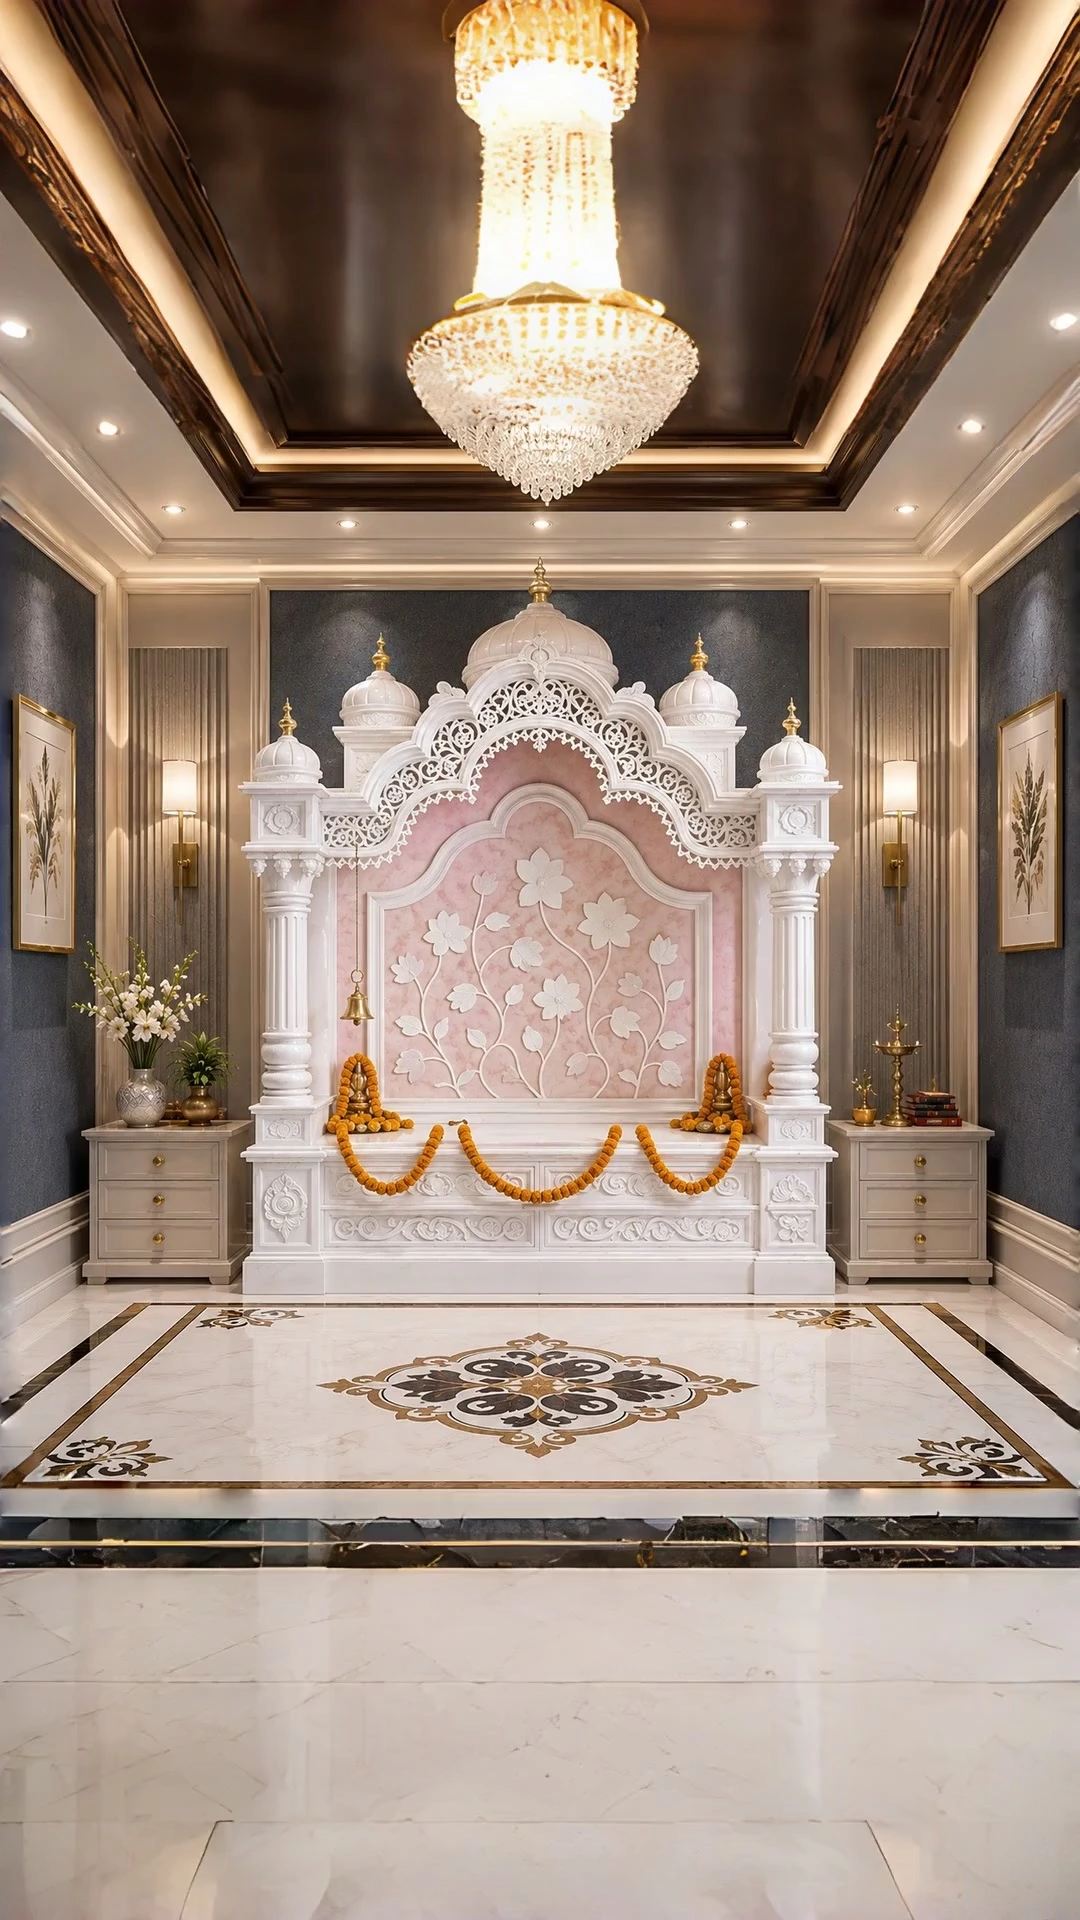
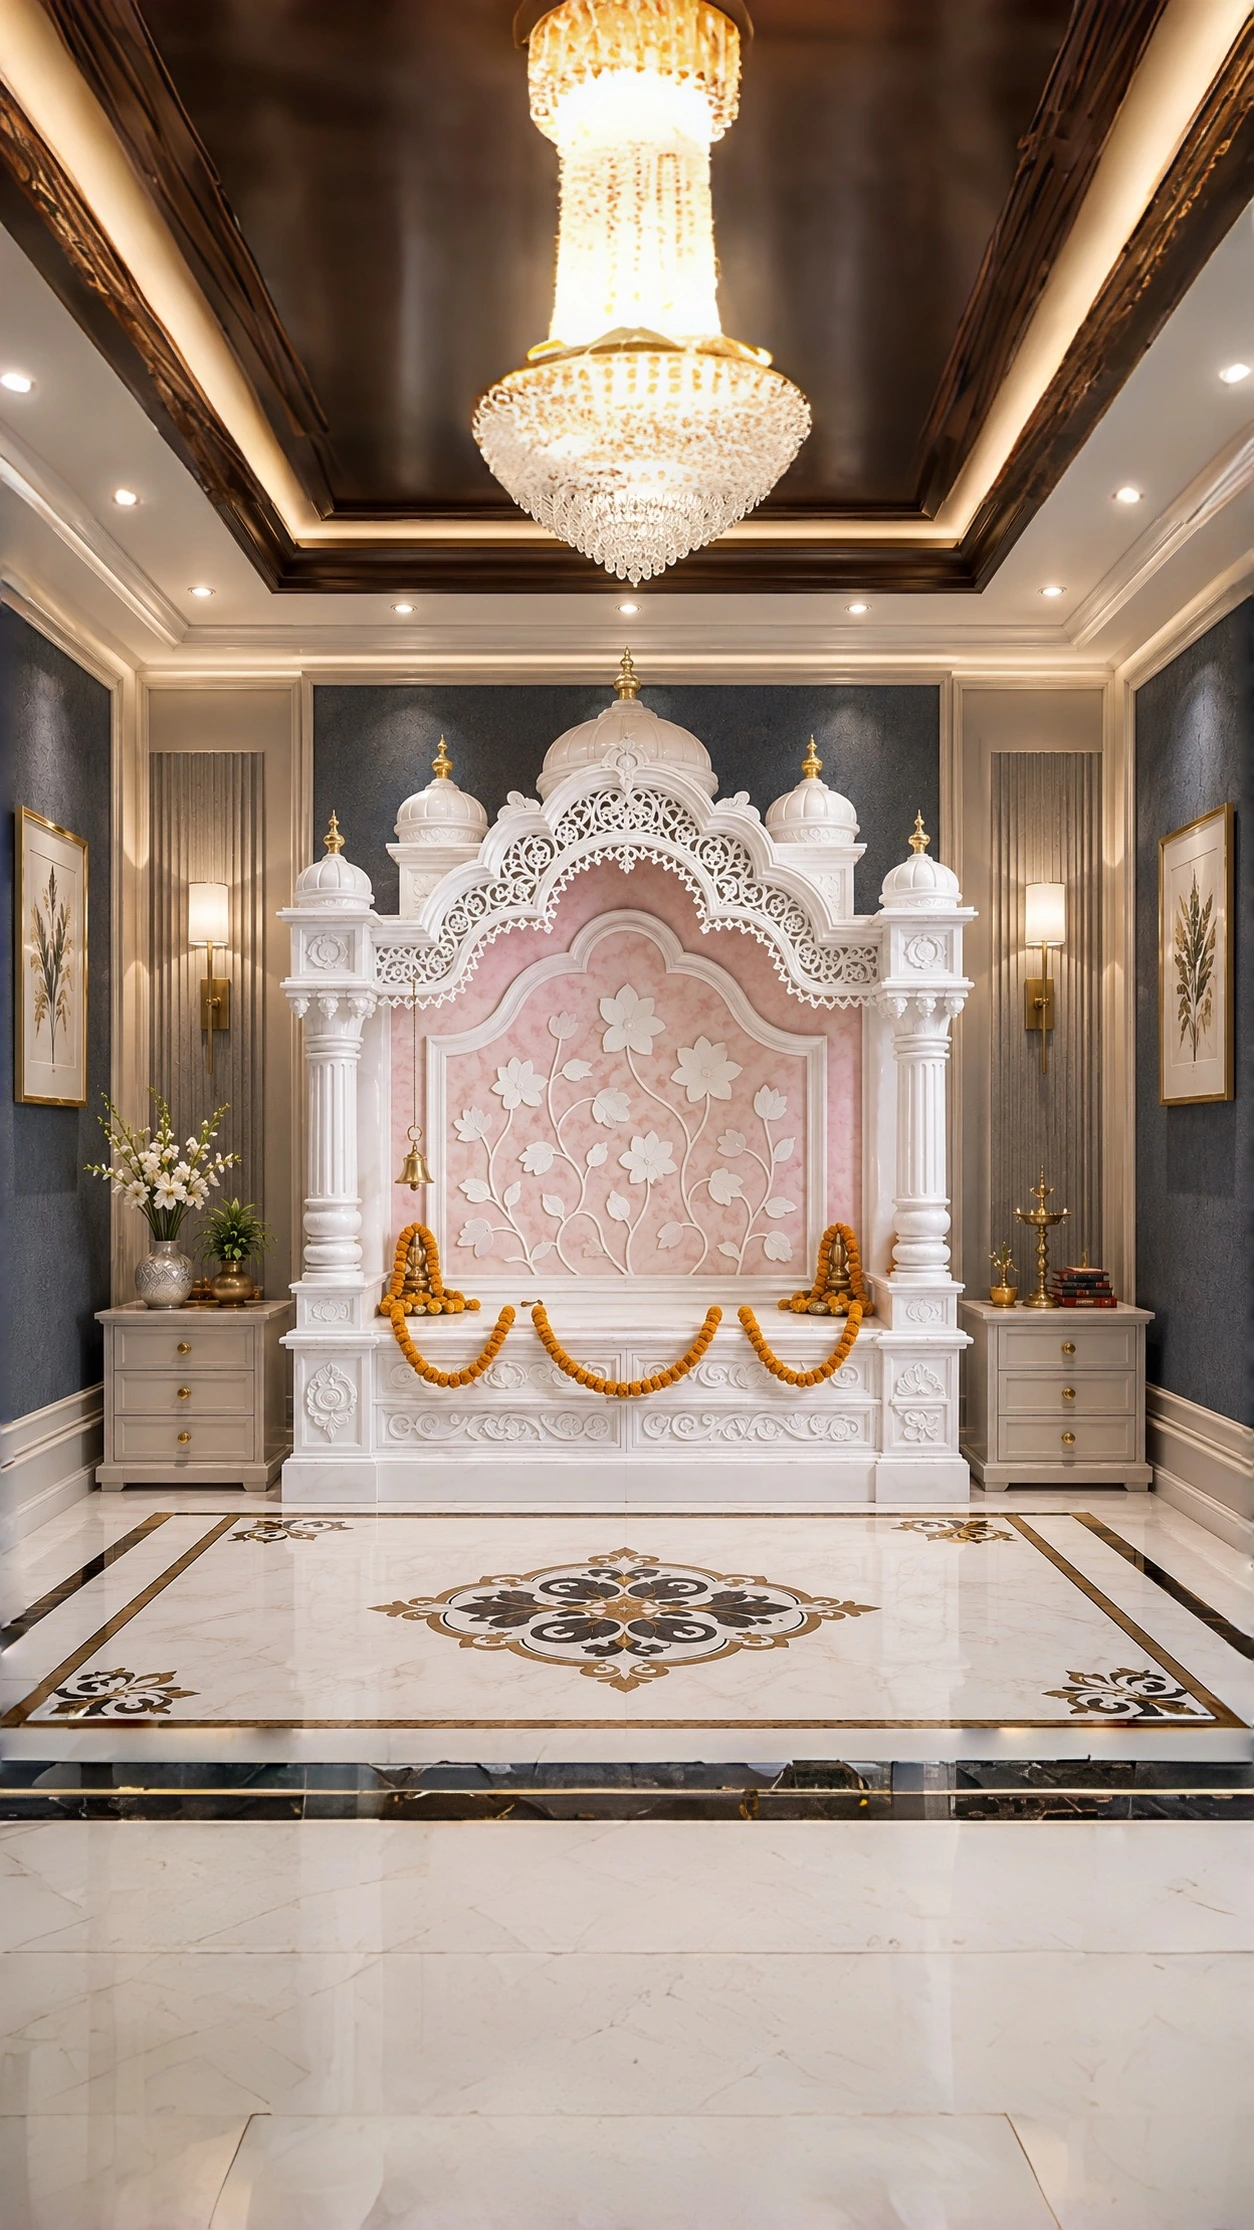
fix: replace duplicate craft process step 3 image with authentic workshop yard trial photo, use IMG_5714 for mobile video poster, and ensure 100% unique product gallery images

diff --git a/src/products.js b/src/products.js
@@ -734,22 +734,22 @@ export const PRODUCTS = [
       'Designed for expansive botanical gardens and hotel courtyards, this octagonal fountain features an architectural coping ledge for relaxed seating, with a central tiered cascade providing an enchanting acoustic presence.',
     angles: [
       {
-        label: 'Circular Pool View',
+        label: 'Octagonal Garden View',
         tag: 'Complete View',
-        src: '/gallery/fountain-circular-lawn-estate-cascade.webp',
-        desc: '100% pure white Makrana marble tiered fountain with large pool basin on garden lawn.'
+        src: '/gallery/fountain-botanical-garden-octagonal.webp',
+        desc: '100% pure white marble octagonal tiered fountain set on garden lawn.'
       },
       {
-        label: 'Lawn Cascade Setting',
-        tag: 'Water Cascade',
-        src: '/gallery/fountain-palatial-estate-triple-tier-lawn.webp',
-        desc: 'Wide view of cascading water tiers and carved scalloped pool rim on estate grounds.'
+        label: 'Octagonal Fountain Crown',
+        tag: 'Center Spout',
+        src: '/gallery/fountain-botanical-octagonal-crown.webp',
+        desc: 'Detail of carved finial and upper cascading water tiers.'
       },
       {
-        label: 'Courtyard Centerpiece Setting',
-        tag: 'Courtyard View',
-        src: '/gallery/fountain-courtyard-circular.webp',
-        desc: 'Full perspective showing the symmetrical basin and soothing water flow.'
+        label: 'Carved Basin Rim',
+        tag: 'Basin Detail',
+        src: '/gallery/fountain-botanical-octagonal-base.webp',
+        desc: 'Octagonal white marble perimeter basin rim with smooth seating ledge.'
       }
     ],
     specs: [

diff --git a/src/app/page.jsx b/src/app/page.jsx
@@ -601,13 +601,13 @@ export default function HomePage() {
               {
                 step: '03',
                 title: 'Full Workshop Assembly & Video Check',
-                img: '/gallery/yard-dryfit-raw-calcite-mandir.webp?v=realphoto',
+                img: '/gallery/atelier-yard-trial-actual.webp',
                 desc: 'Every temple is 100% test-assembled in our workshop to verify every joint and measurement before packing.'
               },
               {
                 step: '04',
                 title: 'Polishing & Safe Home Setup',
-                img: '/gallery/mandir-finishing-onsite-installation.webp?v=realphoto',
+                img: '/gallery/mandir-finishing-onsite-installation.webp?v=nov1',
                 desc: 'Finished with fine diamond water polish, gold leaf accents, and clean white-glove setup inside your home.'
               }
             ].map((item, idx) => (

diff --git a/src/app/pre-assembly-trial/page.jsx b/src/app/pre-assembly-trial/page.jsx
@@ -52,7 +52,7 @@ export default function PreAssemblyTrialPage() {
           <div className="page-grid-2" style={{ marginBottom: '60px' }}>
             <div className="page-media-frame">
               <img
-                src="/gallery/atelier-yard-preassembly.webp?v=realphoto"
+                src="/gallery/atelier-yard-trial-actual.webp"
                 alt="Makrana Atelier Trial Assembly Yard"
                 loading="lazy"
                 style={{ width: '100%', height: '100%', objectFit: 'cover' }}

diff --git a/src/components/Navbar.jsx b/src/components/Navbar.jsx
@@ -123,7 +123,7 @@ const MEGA_ARCHITECTURE = [
     subtitle: 'Pre-Assembly & Video Inspection',
     href: '/pre-assembly-trial',
     badge: 'VIDEO CHECK',
-    previewImage: '/gallery/yard-dryfit-raw-calcite-mandir.webp',
+    previewImage: '/gallery/atelier-yard-trial-actual.webp',
     previewTitle: 'Workshop Video Verification',
     previewDesc: 'Every temple is 100% test-assembled in our workshop with HD video review before packing.',
     ctaText: 'Learn How We Test'

diff --git a/src/components/YardLiveFeed.jsx b/src/components/YardLiveFeed.jsx
@@ -7,7 +7,7 @@ const YARD_BAYS = [
     code: 'BAY 01 — FULL SETUP TRIAL',
     title: 'Workshop Setup & Quality Verification',
     location: 'Makrana Main Workshop Yard',
-    image: '/gallery/yard-dryfit-raw-calcite-mandir.webp?v=4k',
+    image: '/gallery/atelier-yard-trial-actual.webp',
     status: 'ACTIVE INSPECTION',
     inspector: 'Head Craftsman Ramswaroop Silawat',
     project: '7.5ft Makrana Peacock Temple with Mother-of-Pearl Inlay',

diff --git a/src/components/AtelierRibbon.jsx b/src/components/AtelierRibbon.jsx
@@ -33,7 +33,7 @@ const ROW_ONE = [
     caption: 'Carved Garden Pavilion',
   },
   {
-    src: '/gallery/yard-dryfit-raw-calcite-mandir.webp?v=realphoto',
+    src: '/gallery/atelier-yard-trial-actual.webp',
     alt: 'Full setup trial check in our workshop yard',
     caption: 'Workshop Setup Trial Check',
   },
